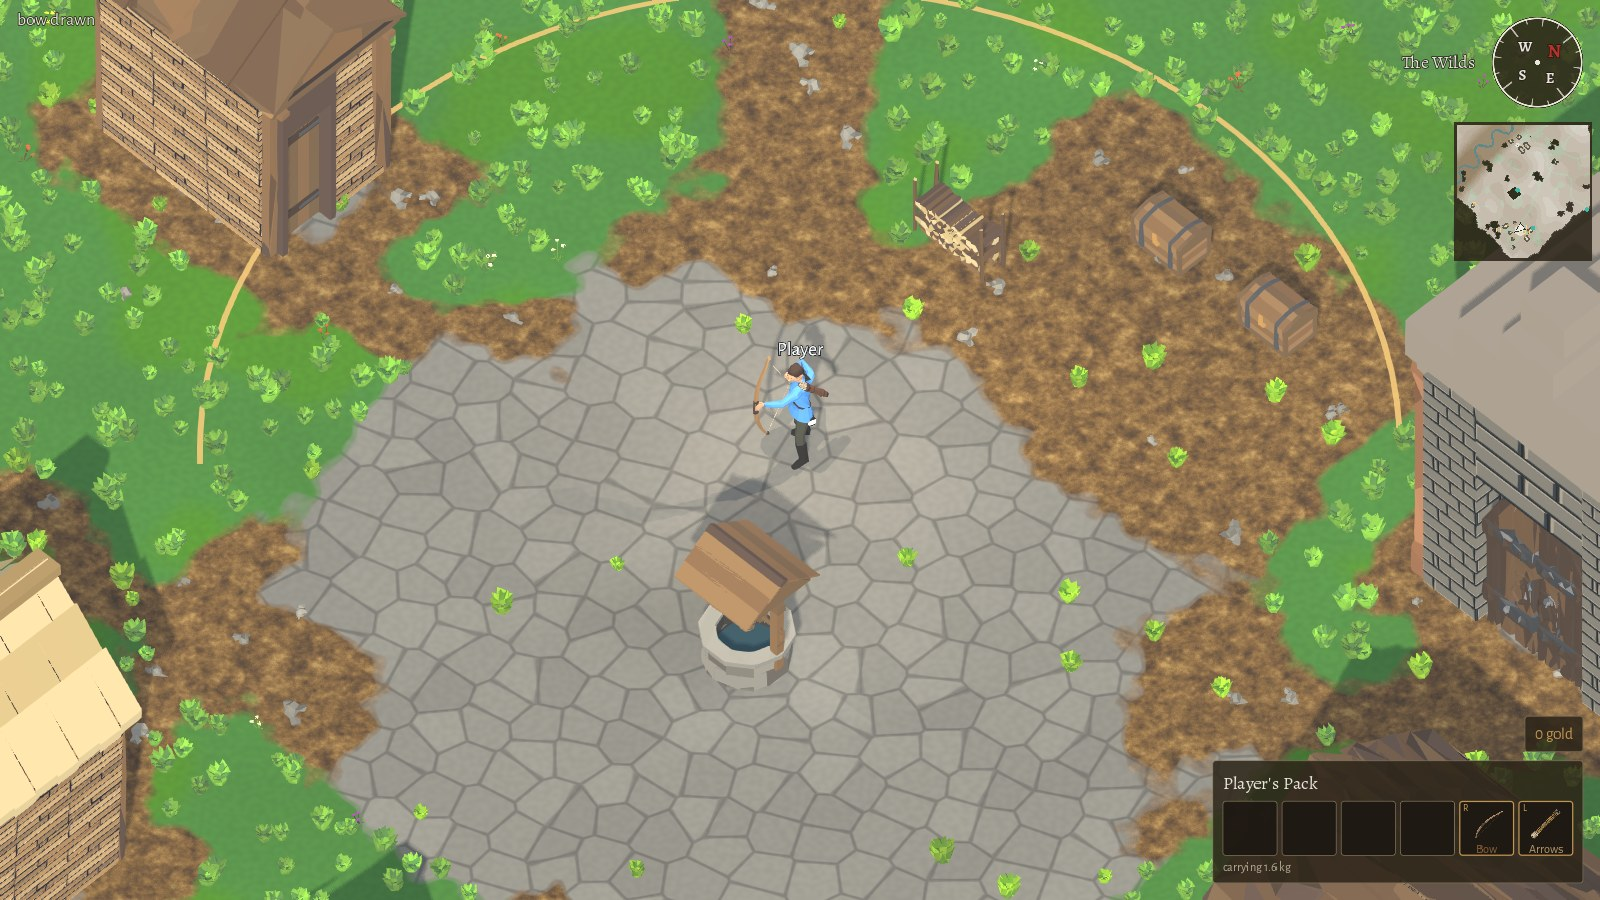
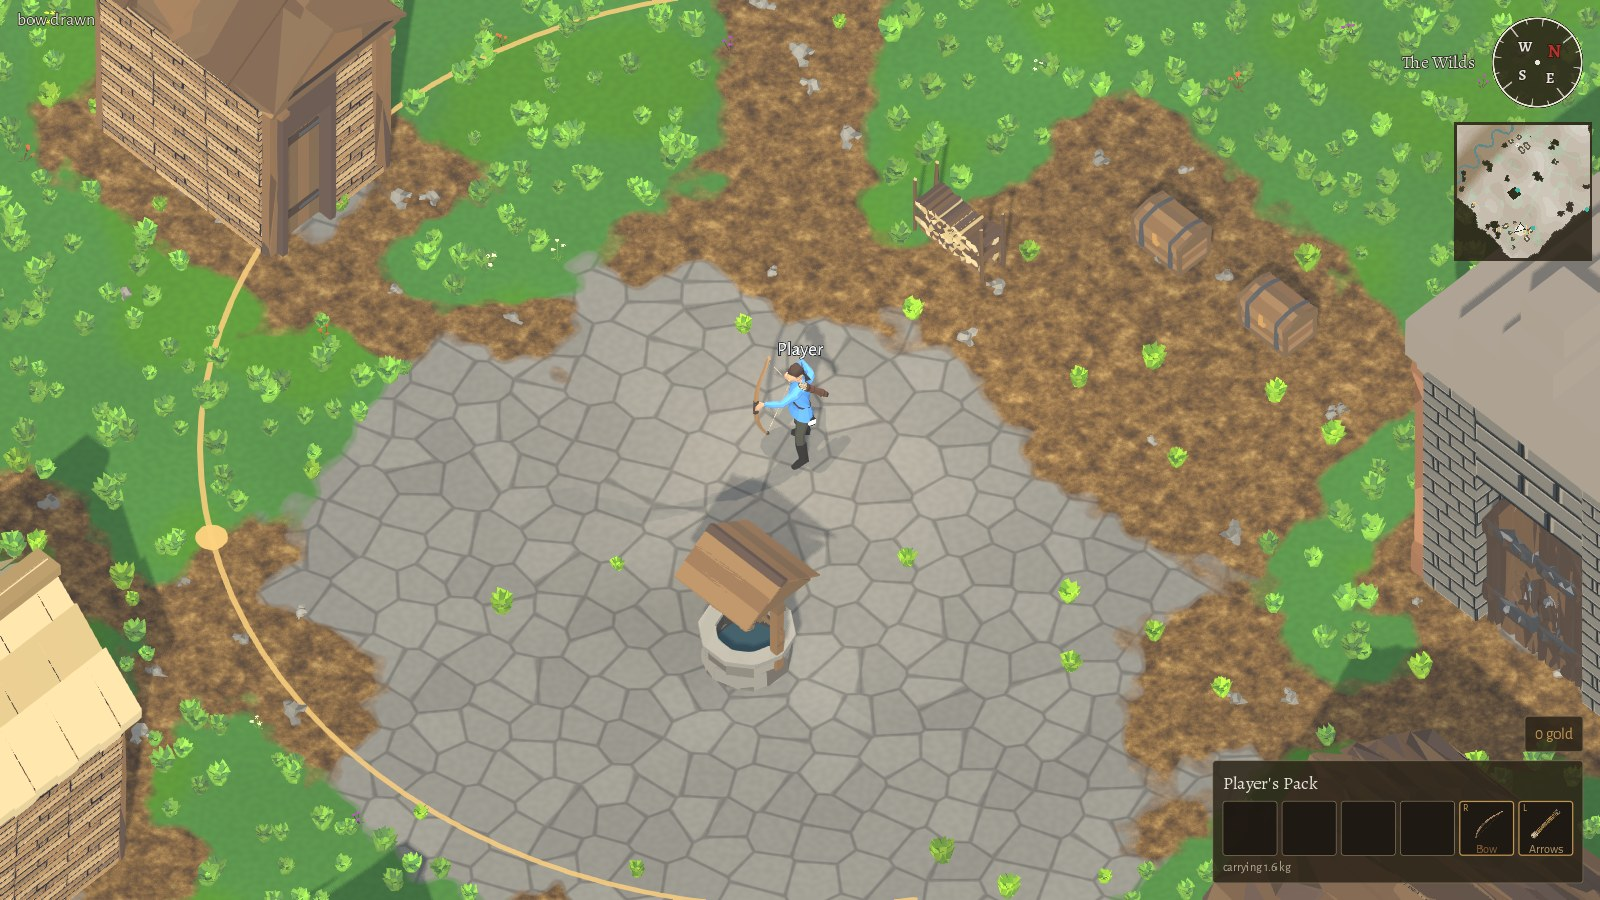
the aim sample from the player's tile, the arc mesh carrying its angle, the options above the menu's kept backdrop (583 ui's side and 418 amended, corrected in place): the shot state's origin comes from the player's tile (the body's 2D position is (0, 0) when the state runs, which aimed the sample a

diff --git a/docs/decisions.md b/docs/decisions.md
@@ -21357,11 +21357,15 @@ first for the power read, Jeff to pick from the shot.
 - --test-show=aim: the host puts a bow in the right hand and arrows in the
   left, draws with the aim fixed down the screen, for the shot
   docs/ui/shots/combat/aim_arc.jpg: the arc round the archer at the full
-  draw's step and "bow drawn" on the HUD; its middle, with the marker and
-  pips, lies above the frame in every sample tried whatever the fixed
-  point, so the sample's steering of the view is still to be understood
-  (the headless check passes); the marker and pips were enlarged for the
-  camera's height.
+  draw's step, the marker and pips on it, "bow drawn" on the HUD. (The
+  sample's origin comes from the player's tile: the body's 2D position is
+  not yet placed when the state runs, so the first samples aimed at the
+  map's corner and put the arc's middle above the frame. The mesh now
+  carries the angle itself, the marker's own arithmetic, so the band and
+  the marker can never disagree; a difference of the shot against the same
+  scene without an arc shows the band on the marker's side, where a road's
+  edge in the scene had read to the eye as a ring over the top.) The
+  marker and pips were enlarged for the camera's height.
 
 ui_test _test_aim: the point on the arc at any angle, the axes, the pips,
 the fade, the command's shape, the aim dropped on release. Client only;
@@ -21434,7 +21438,10 @@ Now the panel lives over the HUD and the menu both, on a canvas layer of
 its own above them (Main's OptionsLayer; a Control under Main alone sat in
 the world's canvas, scaled by the camera, and drew nowhere, as the first
 shot showed), the
-menu's Options hides the menu and opens them (Main._menu_options), and
+menu's Options hides the menu's front (its title, buttons and version;
+MainMenu.show_front) while its dark backdrop stays, so the world and its
+nameplates never show through the options' dim (the coordinator's check
+of the first shot), and opens them (Main._menu_options), and
 closing them (Esc, O, Main.toggle_options) brings the menu back; in play
 nothing changes. --test-show=menu_options for the shot
 (docs/ui/shots/menu/menu_before.jpg the menu as it was; menu_options.jpg

diff --git a/CHANGELOG.md b/CHANGELOG.md
@@ -7,6 +7,7 @@ notes (decision 324).
 
 ## Unreleased
 
+- Fixed: opening Options from the main menu kept the world, your body and its nameplate showing through the panel's dim; the menu's dark backdrop now stays under the options (418 amended).
 - People can wear a hat on their heads by a look word; the town's bard will wear a felt cap with a feather once its piece and the bard's look are in.
 - Drawing a bow shows the arrow on the string again, from the first moment of the draw; it had been hidden along with the bow's old string.
 - The temple and the town follow Theus, the one god of their homeland; Aldous and the draugr know the old gods' war god, Psyke, empowers the draugr, and Pip keeps quiet for his pay and a promised holy knighthood of Theus.
